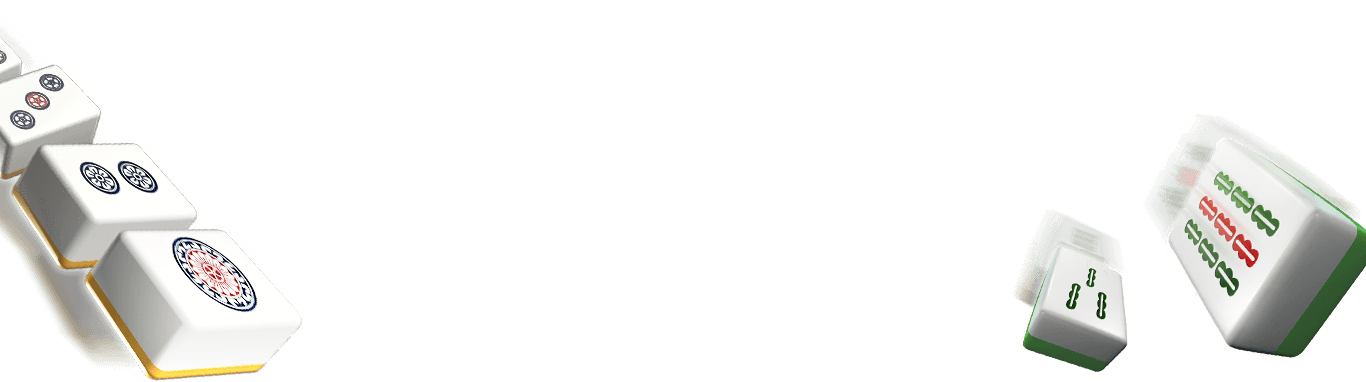
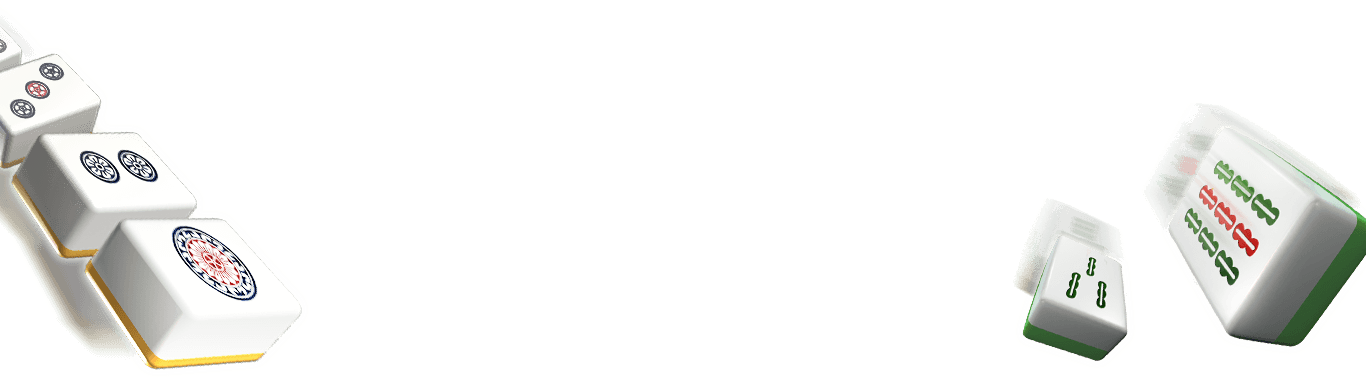
up

diff --git a/jumajan/css/style.css b/jumajan/css/style.css
@@ -75,5 +75,42 @@ main{
 .key_vision{
 	height: 100%;
 	background: url("../images/header_bg.jpg") no-repeat center top;
+	background-size:auto;
+}
+.top_mahjong{
+	background: url("../images/top_mahjong.png") no-repeat center top;
 	background-size: 100% auto;
+	height: 100%;
+}
+.down_mahjong{
+	background: url("../images/down_mahjong.png") no-repeat center bottom;
+	background-size: 100% auto;
+	height: 100%;
+	display: grid;
+	grid-template-rows: 2fr 1fr;
+	align-items: center;
+	justify-content: center;
+}
+.event_text{
+	max-width: 726px;
+}
+a.play_game_bn{
+	background: url("../images/play_game_bn.png") no-repeat center top;
+	max-width: 367px;
+	max-height: 186px;
+	width: 100%;
+	height: 100%;
+	animation: cc 0.5s;
+	animation-iteration-count: infinite;
+}
+a:hover.play_game_bn,a:visited.play_game_bn {
+	background-position: bottom;
+}
+@keyframes cc{
+	 0%{
+        background-position: top;
+    }
+    100%{
+        background-position: bottom;
+    }
 }

diff --git a/jumajan/index.html b/jumajan/index.html
@@ -23,9 +23,16 @@
         <li>聯繫客服</li>
       </ul>
     </div></nav>-->
-	
+  
   <main>
-    <div class="key_vision"></div>
+    <div class="key_vision">
+      <div class="top_mahjong">
+        <div class="down_mahjong">
+		  <div class="event_text"><img src="images/even_text.png" alt=""/></div>
+			<a class="play_game_bn" href="https://jpk.173yy.tw/twmj/share/v20/download.html?inviteCode=191451&gameId=taiwanmj&appFlag=taiwan&channel=100&t=1595829894551%EF%BD%9D" target="_blank"> </a>
+	    </div>
+      </div>
+    </div>
   </main>
   <footer>新增 footer 標籤的內容位於此處</footer>
 </div>
